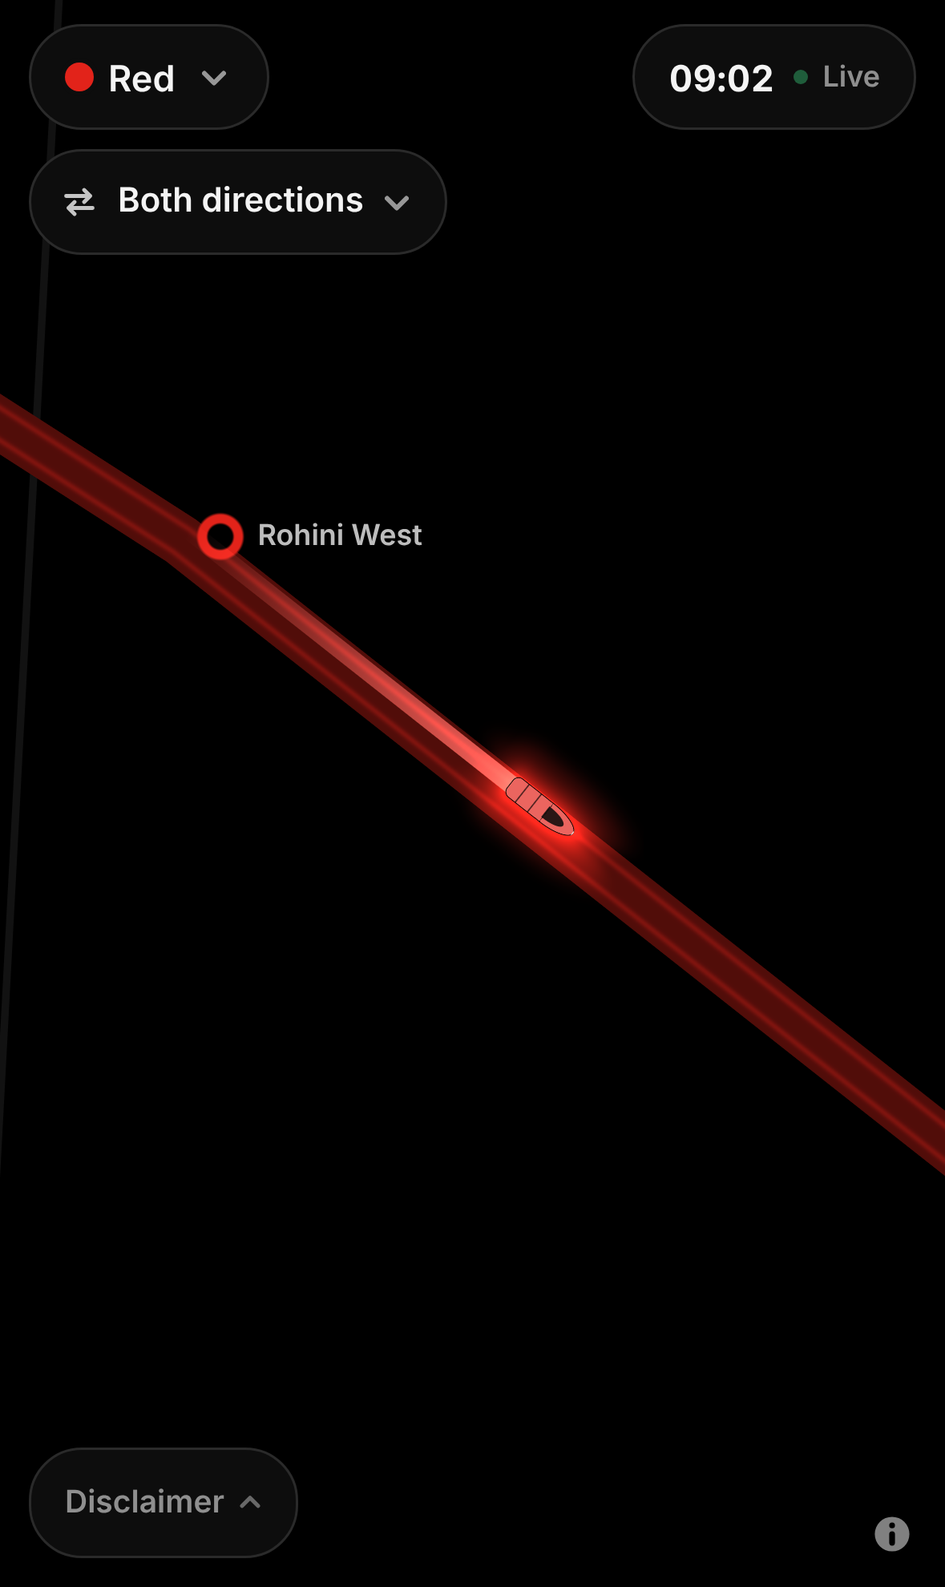
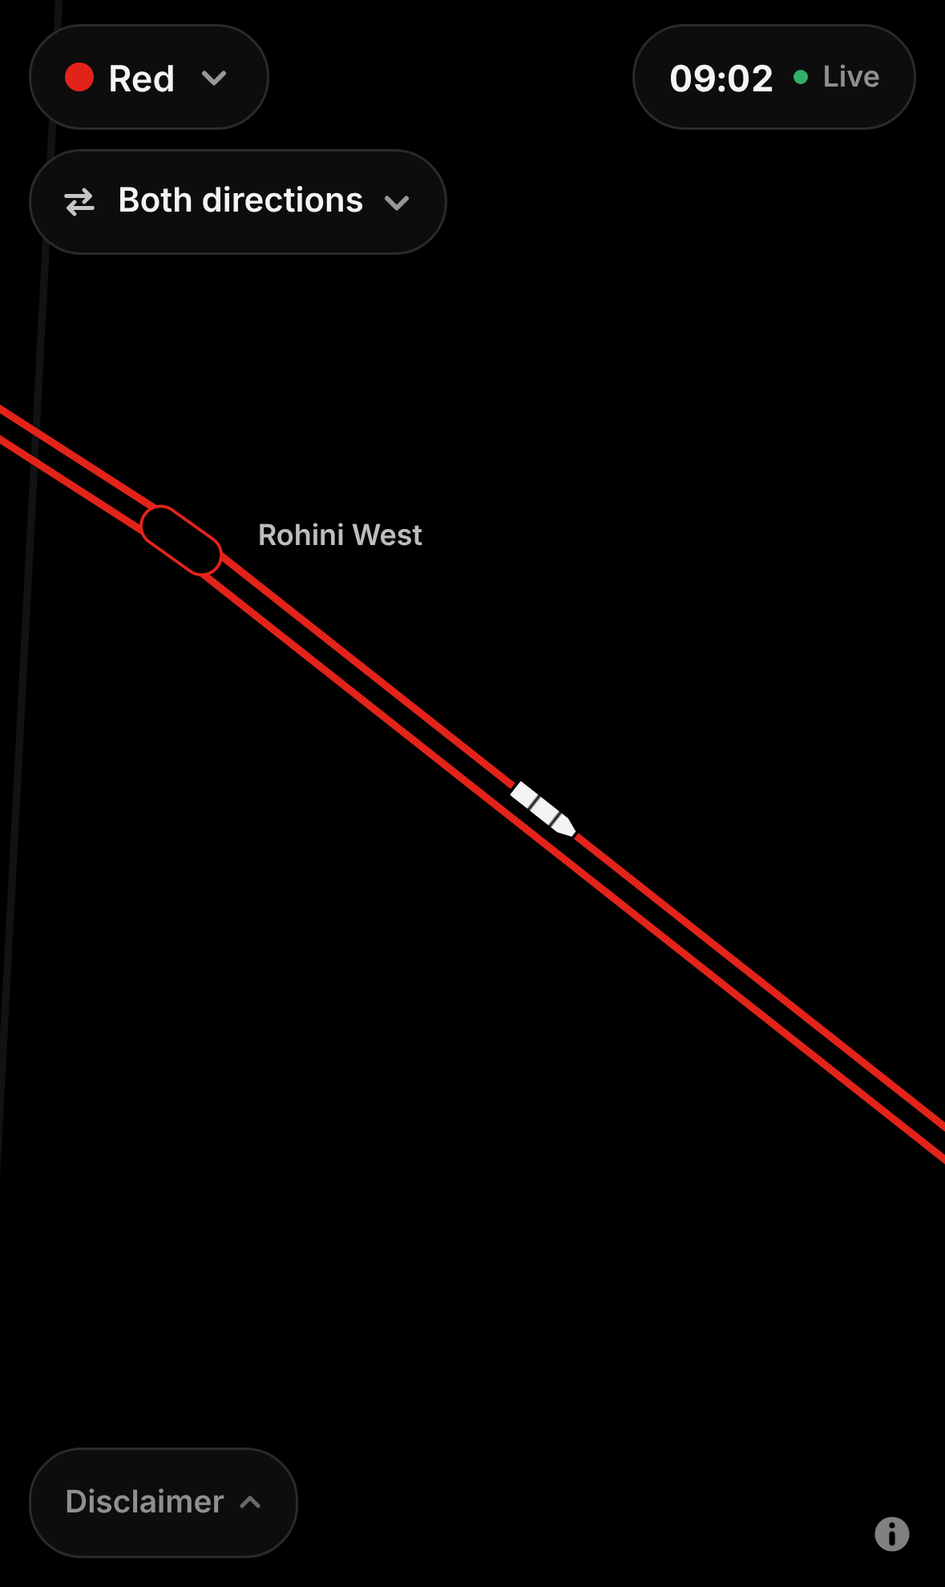
Maptro 1.2: solid rails, white metro cars, platform stations
Drop the glow, trails and dimmed band that made the track read like an LED
strip. Each line is now its own solid DMRC colour as two thin rails, one per
direction, that close into one thin line when zoomed out. Trains are boxy
white metro cars with a cut front (the bullet with a dark windscreen read as
a fingertip). Stations are drawn as their platforms: a black pill along the
track, edged in the line colour or white at interchanges, one per line.

Screenshot script adds every-line, interchange and Airport close-up shots;
before/after pairs are in docs/screenshots/1.2.

Claude-Session: https://claude.ai/code/session_01UZxfWzKVYAHWCsTLyJf7CS

Changed region(s): [[0.0, 0.2465, 1.0, 0.7394], [0.8244, 0.0308, 0.855, 0.0616]]

diff --git a/index.html b/index.html
@@ -328,9 +328,8 @@ const NAMES = {RED:'Red',YELLOW:'Yellow',BLUE:'Blue',GREEN:'Green',VIOLET:'Viole
 const SHOW = {BLUE:'#2f86f0',VIOLET:'#a05bd0',MAGENTA:'#e0329f',GRAY:'#a7adb5',RAPID:'#5aa0ec',GREEN:'#33b34f'};
 const DEFAULT = ['ORANGE/AIRPORT'];
 const LINES_KEY = 'maptro-lines-v2'; // v2: the default became the Airport Express, so earlier saved picks start fresh
+const INK = [.957, .957, .957]; // --ink: trains are drawn in it, so they stand out from any line
 const SPEEDS = [1, 10, 60]; // simulation only; live time always runs at 1x
-const TRAIL_S = 55;
-const TRACK_DIM = .36; // the track is the line colour at about a third, so the trains carry the light
 // Basemap: OpenStreetMap data as OpenFreeMap vector tiles (free, no key, made for hotlinking), drawn in Maptro's own
 // true-black style. No symbol layers, so no fonts or sprites load; station names are ours. Tokens in DESIGN.md.
 const BLACK_STYLE = { version: 8,
@@ -390,12 +389,10 @@ void main(){
   vec2 o=n*ml*(a_side*hw+u_off);
   gl_Position=vec4((s+o)/(u_res*.5)*c.w,0.,c.w);v_col=a_col;v_s=a_side*hw;
 }`;
-const LINE_FS = `precision highp float;varying vec4 v_col;varying float v_s;uniform float u_w,u_glow;
-void main(){float d=abs(v_s),a;vec3 c=v_col.rgb;
-  if(u_glow>1.5){ // track: a faded band with a faint lane down each side, so it reads as two tracks
-    a=clamp(u_w*.5+.5-d,0.,1.);float q=d-u_w*.27;c*=1.+.55*exp(-q*q/max(u_w*u_w*.004,.6));}
-  else if(u_glow>.5){float x=clamp(d/(u_w*.5+1.),0.,1.);a=(1.-x)*(1.-x)*.28;}else a=clamp(u_w*.5+.5-d,0.,1.);
-  gl_FragColor=vec4(c,1.)*v_col.a*a;}`;
+// Track: solid line colour. Two rails, one per direction, that merge into one line when zoomed out.
+const LINE_FS = `precision highp float;varying vec4 v_col;varying float v_s;uniform float u_w,u_gap;
+void main(){float d=abs(v_s);float a=clamp(u_w*.5+.5-d,0.,1.);if(u_gap>.01)a*=clamp(d-u_gap+.5,0.,1.);
+  gl_FragColor=vec4(v_col.rgb,1.)*v_col.a*a;}`;
 const PT_VS = `precision highp float;
 attribute vec2 a_pos,a_dir;attribute vec4 a_col;attribute float a_size,a_kind;
 uniform mat4 u_m;uniform vec2 u_res;uniform float u_off,u_scale,u_tl,u_pad;
@@ -404,38 +401,31 @@ void main(){
   vec4 c=u_m*vec4(a_pos,0.,1.);vec2 s=c.xy/c.w*u_res*.5;v_dir=vec2(1.,0.);
   if(dot(a_dir,a_dir)>0.){vec4 c2=u_m*vec4(a_pos+a_dir*1e-6,0.,1.);vec2 t=c2.xy/c2.w*u_res*.5-s;
     if(dot(t,t)>1e-12){t=normalize(t);s+=vec2(-t.y,t.x)*u_off;v_dir=t;}}
-  // trains (kind 0) and their selection outline (kind 2) are sized from the train's length; stations from a_size
+  // trains (kind 0) and their selection outline (kind 2) are sized from the train's length; platforms (kind 1) from u_scale
   float px=a_kind>1.5||a_kind<.5?u_tl*a_size+2.*u_pad:a_size*u_scale;
   gl_Position=vec4(s/(u_res*.5)*c.w,0.,c.w);gl_PointSize=px;v_px=px;v_sz=a_size;v_col=a_col;v_kind=a_kind;
 }`;
-// A train seen from above: a body with a rounded tail and a bullet nose, pointing the way it travels.
+// A train seen from above: a boxy metro car, three coaches, the front corners cut so it points the way it travels.
+// A station is drawn as its platform: a pill along the track, wide enough to take both rails, a train long.
 const PT_FS = `precision highp float;varying vec4 v_col;varying float v_kind,v_px,v_sz;varying vec2 v_dir;
-uniform float u_body,u_tl,u_tw,u_coach;
-float ell(vec2 q,vec2 r){float k=length(q/r);vec2 g=q/(r*r)/max(k,1e-4);return (k-1.)/max(length(g),1e-4);}
-float bullet(vec2 q,float L,float W,out float glass){
-  float hl=L*.5,hw=W*.5,nose=min(W*1.45,L*.42),x0=hl-nose,rr=hw*.6;
-  vec2 c=vec2((x0-hl)*.5,0.),b=vec2((x0+hl)*.5,hw),d=abs(q-c)-b+rr;
-  float box=length(max(d,0.))+min(max(d.x,d.y),0.)-rr;
-  glass=max(ell(q-vec2(x0,0.),vec2(nose*.62,hw*.56)),x0-nose*.05-q.x);
-  return min(box,ell(q-vec2(x0,0.),vec2(nose,hw)));}
+uniform float u_tl,u_tw,u_coach,u_bw,u_rim;uniform vec2 u_pl;
+float rbox(vec2 q,vec2 h,float r){vec2 d=abs(q)-h+r;return length(max(d,0.))+min(max(d.x,d.y),0.)-r;}
+float car(vec2 q,float L,float W){float hl=L*.5,hw=W*.5,nose=min(W*.7,L*.22);
+  vec2 n=normalize(vec2(hw*.55,nose));
+  return max(rbox(q,vec2(hl,hw),hw*.35),dot(vec2(q.x,abs(q.y))-vec2(hl,hw*.45),n));}
 void main(){vec2 p=vec2(gl_PointCoord.x*2.-1.,1.-gl_PointCoord.y*2.);
-  if(v_kind<.5||v_kind>1.5){
-    vec2 q=p*v_px*.5;q=vec2(dot(q,v_dir),dot(q,vec2(-v_dir.y,v_dir.x)));
-    float L=u_tl*v_sz,W=u_tw*v_sz,gs;float d=bullet(q,L,W,gs);
-    if(v_kind>1.5){float a=clamp(1.3-abs(d-3.2),0.,1.);gl_FragColor=vec4(1.)*a*v_col.a;return;}
-    if(u_body<.5){float pad=(v_px-L)*.5;float g=exp(-max(d,0.)/(W*.75))*(1.-smoothstep(pad*.45,pad*.9,d));gl_FragColor=vec4(v_col.rgb*g*.95,0.)*v_col.a;return;}
-    float edge=clamp(.5-d,0.,1.);
-    vec3 fill=mix(v_col.rgb,vec3(1.),.3);
-    // gaps between coaches, once the train is big enough to show them
-    float x0=L*.5-min(W*1.45,L*.42),cl=(x0+L*.5)/3.;float gx=abs(mod(q.x+L*.5+cl*.5,cl)-cl*.5);
-    if(u_coach>.5&&q.x>-L*.5+cl*.5&&q.x<x0)fill*=mix(.35,1.,clamp(gx-.35,0.,1.));
-    vec3 col=mix(vec3(0.),fill,1.-smoothstep(-1.4,-.4,d)); // a dark rim, so the train never melts into its track
-    col=mix(col,vec3(.03),clamp(.5-gs,0.,1.)*.85);       // windscreen
-    col=mix(col,vec3(1.),clamp(.5-(L*.5-1.4-q.x),0.,1.)*clamp(.5-d,0.,1.)*.9); // headlight at the nose
-    gl_FragColor=vec4(col,1.)*edge*v_col.a;return;}
-  float r=length(p);if(r>1.)discard;
-  float ring=smoothstep(.98,.84,r);float inner=smoothstep(.58,.46,r);
-  gl_FragColor=vec4(mix(v_col.rgb,vec3(0.),inner),1.)*ring*v_col.a;
+  vec2 q=p*v_px*.5;q=vec2(dot(q,v_dir),dot(q,vec2(-v_dir.y,v_dir.x)));
+  if(v_kind>.5&&v_kind<1.5){ // platform: black inside, a hairline in the line colour (white at interchanges)
+    vec2 h=u_pl*.5;float d=rbox(q,h,h.y);float a=clamp(.5-d,0.,1.);
+    vec3 col=v_col.rgb*clamp(d+u_bw+.5,0.,1.);
+    gl_FragColor=vec4(col,1.)*a*v_col.a;return;}
+  float L=u_tl*v_sz,W=u_tw*v_sz;float d=car(q,L,W);
+  if(v_kind>1.5){float a=clamp(1.3-abs(d-3.2),0.,1.);gl_FragColor=vec4(1.)*a*v_col.a;return;}
+  vec3 fill=v_col.rgb;
+  float gx=min(abs(q.x-L/6.),abs(q.x+L/6.)); // gaps between coaches, once the train is big enough to show them
+  if(u_coach>.5)fill*=mix(.15,1.,clamp(gx/u_rim*1.4-.2,0.,1.));
+  vec3 col=fill*clamp(-d-u_rim+.5,0.,1.); // a black rim, so the train never melts into its rail
+  gl_FragColor=vec4(col,1.)*clamp(.5-d,0.,1.)*v_col.a;
 }`;
 
 class Buf { // growable Float32 / Uint16 writer
@@ -457,16 +447,19 @@ function polyline(V, I, pts, rgba, fade) { // pts: [[x,y,f?]] in relative Mercat
   for (let i = 0; i < n - 1; i++) { const k = base + i * 2; I.push(k, k + 1, k + 2, k + 1, k + 3, k + 2); }
 }
 
-// Sizes in CSS pixels by zoom. The track is two trains wide, so trains in each direction run in their own lane.
+// Sizes in CSS pixels by zoom. Each direction has its own rail, so trains never overlap.
 function sizes(z) {
-  const tw = Math.max(2.6, Math.min(10, 2.6 + (z - 10) * 1.45));
-  const track = tw * 2 + 1.5;
-  // stations stay small dots when zoomed out and grow to span the track when zoomed in
-  return { tw, tl: tw * 3.4, track, lane: tw * .5 + .4, st: Math.max(4.5, Math.min(track + 3, 4 + (z - 10) * 3.4)) };
+  const tw = Math.max(3.2, Math.min(10, 2.6 + (z - 10) * 1.45)), tl = tw * 3.4;
+  const split = Math.max(0, Math.min(1, (tw - 3.6) / 1.8)); // rails part as you zoom in
+  // zoomed out, the two lanes close up so the line is thinner than the trains on it, and trains stay easy to spot
+  const lane = (tw * .5 + .4) * (.4 + .6 * split), rail = Math.max(1.3, tw * .3), band = lane * 2 + rail;
+  // a platform takes both rails with a margin; zoomed out it is a round mark, zoomed in it is a train long
+  const pw = band + 4, pl = pw + (tl * 1.15 - pw) * Math.max(0, Math.min(1, (z - 11.6) / 1.6));
+  return { tw, tl, lane, rail, band, rim: Math.max(.6, Math.min(1.25, tw * .14)), gap: (lane - rail / 2) * split, pw, pl, st: Math.max(pw, pl * .55) };
 }
 function makeGpu() {
   const g = { lineV: new Buf(Float32Array), lineI: new Buf(Uint16Array), stV: new Buf(Float32Array),
-    trV: new Buf(Float32Array), trI: new Buf(Uint16Array), headV: new Buf(Float32Array), fxV: new Buf(Float32Array),
+    headV: new Buf(Float32Array), fxV: new Buf(Float32Array),
     staticDirty: true, gl: null };
   g.init = gl => {
     g.gl = gl;
@@ -479,7 +472,7 @@ function makeGpu() {
       return { p, u, attrs }; };
     g.line = prog(LINE_VS, LINE_FS, ['a_pos', 'a_prev', 'a_next', 'a_side', 'a_col']);
     g.pt = prog(PT_VS, PT_FS, ['a_pos', 'a_dir', 'a_col', 'a_size', 'a_kind']);
-    g.b = {}; for (const k of ['lineV', 'lineI', 'stV', 'trV', 'trI', 'headV', 'fxV']) g.b[k] = gl.createBuffer();
+    g.b = {}; for (const k of ['lineV', 'lineI', 'stV', 'headV', 'fxV']) g.b[k] = gl.createBuffer();
     g.isGL2 = typeof WebGL2RenderingContext !== 'undefined' && gl instanceof WebGL2RenderingContext;
     g.vao = g.isGL2 ? null : gl.getExtension('OES_vertex_array_object');
     g.minmax = g.isGL2 ? gl.MAX : (gl.getExtension('EXT_blend_minmax') || {}).MAX_EXT;
@@ -499,34 +492,25 @@ function makeGpu() {
     if (g.isGL2) gl.bindVertexArray(null); else if (g.vao) g.vao.bindVertexArrayOES(null);
     gl.disable(gl.DEPTH_TEST); gl.disable(gl.STENCIL_TEST); gl.disable(gl.CULL_FACE); gl.enable(gl.BLEND);
     const res = [gl.drawingBufferWidth, gl.drawingBufferHeight], dpr = view.dpr, z = view.zoom, S = sizes(z);
-    const tw = S.tw * dpr, tl = S.tl * dpr, trackW = S.track * dpr, off = S.lane * dpr;
+    const tw = S.tw * dpr, tl = S.tl * dpr, trackW = S.band * dpr, off = S.lane * dpr;
     if (g.staticDirty) { upload(gl, gl.ARRAY_BUFFER, g.b.lineV, g.lineV.view(), gl.STATIC_DRAW); upload(gl, gl.ELEMENT_ARRAY_BUFFER, g.b.lineI, g.lineI.view(), gl.STATIC_DRAW);
       upload(gl, gl.ARRAY_BUFFER, g.b.stV, g.stV.view(), gl.STATIC_DRAW); g.staticDirty = false; }
     gl.blendEquation(gl.FUNC_ADD); gl.blendFunc(gl.ONE, gl.ONE_MINUS_SRC_ALPHA);
-    // track: one solid faded band per line (pre-dimmed colour, so shared sections don't brighten), two lanes wide
+    // track: the line's own colour, solid, one rail per direction
     const L = g.line; gl.useProgram(L.p); gl.uniformMatrix4fv(L.u.u_m, false, M); gl.uniform2fv(L.u.u_res, res);
     gl.bindBuffer(gl.ARRAY_BUFFER, g.b.lineV); gl.bindBuffer(gl.ELEMENT_ARRAY_BUFFER, g.b.lineI); bindAttrs(gl, LINE_LAYOUT, 11);
-    if (g.lineI.n) { gl.uniform1f(L.u.u_w, trackW); gl.uniform1f(L.u.u_off, 0); gl.uniform1f(L.u.u_glow, 2);
+    if (g.lineI.n) { gl.uniform1f(L.u.u_w, trackW); gl.uniform1f(L.u.u_off, 0); gl.uniform1f(L.u.u_gap, S.gap * dpr);
       gl.drawElements(gl.TRIANGLES, g.lineI.n, gl.UNSIGNED_SHORT, 0); }
     unbind(gl, 5);
-    // stations sit on the track, under the trains
+    // platforms sit on the track, under the trains
     const P = g.pt; gl.useProgram(P.p); gl.uniformMatrix4fv(P.u.u_m, false, M); gl.uniform2fv(P.u.u_res, res);
     gl.uniform1f(P.u.u_tl, tl); gl.uniform1f(P.u.u_tw, tw); gl.uniform1f(P.u.u_coach, S.tw >= 5 ? 1 : 0);
+    gl.uniform1f(P.u.u_bw, 1.25 * dpr); gl.uniform1f(P.u.u_rim, S.rim * dpr); gl.uniform2f(P.u.u_pl, S.pl * dpr, S.pw * dpr);
     const pts = (buf, data, scale, o, pad, again) => { if (!data.n) return; gl.bindBuffer(gl.ARRAY_BUFFER, buf); if (data !== g.stV && !again) gl.bufferData(gl.ARRAY_BUFFER, data.view(), gl.DYNAMIC_DRAW);
       bindAttrs(gl, PT_LAYOUT, 10); gl.uniform1f(P.u.u_scale, scale * dpr); gl.uniform1f(P.u.u_off, o); gl.uniform1f(P.u.u_pad, pad); gl.drawArrays(gl.POINTS, 0, data.n / 10); };
-    gl.uniform1f(P.u.u_body, 0); pts(g.b.stV, g.stV, S.st, 0, 0);
-    unbind(gl, 5);
-    // trails, in the train's lane, added light
-    if (g.trI.n) {
-      gl.useProgram(L.p);
-      upload(gl, gl.ARRAY_BUFFER, g.b.trV, g.trV.view(), gl.DYNAMIC_DRAW); upload(gl, gl.ELEMENT_ARRAY_BUFFER, g.b.trI, g.trI.view(), gl.DYNAMIC_DRAW);
-      bindAttrs(gl, LINE_LAYOUT, 11); gl.uniform1f(L.u.u_w, tw * .78); gl.uniform1f(L.u.u_off, off); gl.uniform1f(L.u.u_glow, 0);
-      gl.blendFunc(gl.ONE, gl.ONE); gl.drawElements(gl.TRIANGLES, g.trI.n, gl.UNSIGNED_SHORT, 0); gl.blendFunc(gl.ONE, gl.ONE_MINUS_SRC_ALPHA);
-      unbind(gl, 5); gl.useProgram(P.p);
-    }
-    // trains: an added glow, then the solid body on top, then the selection outline
-    gl.blendFunc(gl.ONE, gl.ONE); pts(g.b.headV, g.headV, 1, off, tw * 2.6); gl.blendFunc(gl.ONE, gl.ONE_MINUS_SRC_ALPHA);
-    gl.uniform1f(P.u.u_body, 1); pts(g.b.headV, g.headV, 1, off, 2 * dpr, true); gl.uniform1f(P.u.u_body, 0);
+    pts(g.b.stV, g.stV, S.pl + 4, 0, 0);
+    // trains, then the selection outline
+    pts(g.b.headV, g.headV, 1, off, 2 * dpr);
     pts(g.b.fxV, g.fxV, 1, off, 6 * dpr);
     unbind(gl, 5);
     gl.bindBuffer(gl.ARRAY_BUFFER, null); gl.bindBuffer(gl.ELEMENT_ARRAY_BUFFER, null);
@@ -544,21 +528,26 @@ function buildStatic() {
     for (const r of R) {
       if (r.line !== l || (r.id.endsWith('_R') && ids.has(r.id.slice(0, -2)))) continue;
       const pts = []; for (let i = 0; i < r.mx.length; i++) pts.push([r.mx[i] - ORIGIN[0], r.my[i] - ORIGIN[1]]);
-      polyline(g.lineV, g.lineI, pts, [...rgb[l].map(v => v * TRACK_DIM), 1]);
+      polyline(g.lineV, g.lineI, pts, [...rgb[l], 1]);
     }
   }
-  // stations, one per name, interchanges (on 2+ lines anywhere) in white and larger
-  const byName = new Map();
+  // stations, one per name, for labels and taps; interchanges are on 2+ lines anywhere
+  const byName = new Map(), plat = new Map();
   for (const r of R) r.pat.forEach((p, j) => {
     const name = D.stops[p[0]][0]; let s = byName.get(name);
     if (!s) byName.set(name, s = { name, ids: new Set(), lines: new Set(), on: new Set(), term: false, m: null });
     s.ids.add(p[0]); s.lines.add(r.line);
-    if (sel.has(r.line)) { s.on.add(r.line); if (!s.m) s.m = merc(D.stops[p[0]][1], D.stops[p[0]][2]); if (j === 0 || j === r.pat.length - 1) s.term = true; }
+    if (sel.has(r.line)) { s.on.add(r.line); if (!s.m) s.m = merc(D.stops[p[0]][1], D.stops[p[0]][2]); if (j === 0 || j === r.pat.length - 1) s.term = true;
+      const k = name + '|' + r.line; if (!plat.has(k)) plat.set(k, { s, r, d: p[3] }); }
   });
   stations = [...byName.values()].filter(s => s.on.size);
+  // one platform per station per line, on that line's own track and turned to follow it
+  for (const { s, r, d } of plat.values()) {
+    const [x, y] = posAt(r, d), [tx, ty] = headingAt(r, d), c = s.lines.size > 1 ? [1, 1, 1] : rgb[r.line];
+    g.stV.push(x - ORIGIN[0], y - ORIGIN[1], tx, ty, c[0], c[1], c[2], 1, 1, 1);
+  }
   for (const s of stations) {
-    const ic = s.lines.size > 1, c = ic ? [1, 1, 1] : rgb[[...s.on][0]];
-    g.stV.push(s.m[0] - ORIGIN[0], s.m[1] - ORIGIN[1], 0, 0, c[0], c[1], c[2], 1, ic ? 1.3 : 1, 1);
+    const ic = s.lines.size > 1;
     s.pri = (s.term ? 2 : 0) + (ic ? 1 : 0);
     s.minZ = s.term ? 9 : ic ? 10.3 : 11.6;
   }
@@ -566,14 +555,11 @@ function buildStatic() {
   g.staticDirty = true; labelsDirty = true;
 }
 function buildDynamic(t) {
-  const g = gpu; g.trV.reset(); g.trI.reset(); g.headV.reset(); g.fxV.reset();
+  const g = gpu; g.headV.reset(); g.fxV.reset();
   trains = trainsAt(act, t, null);
   for (const o of trains) {
-    const c = rgb[o.r.line];
-    const tr = trailPoints(o.r, o.e, TRAIL_S).map(p => [p[0] - ORIGIN[0], p[1] - ORIGIN[1], p[2]]);
-    polyline(g.trV, g.trI, tr, [c[0] * .6 + .4, c[1] * .6 + .4, c[2] * .6 + .4, .75], true);
     const [x, y] = o.pos, [tx, ty] = headingAt(o.r, o.d);
-    const isPick = picked && picked.r === o.r && picked.s0 === o.s0;
+    const isPick = picked && picked.r === o.r && picked.s0 === o.s0, c = INK; // trains are white objects on their line
     g.headV.push(x - ORIGIN[0], y - ORIGIN[1], tx, ty, c[0], c[1], c[2], 1, isPick ? 1.18 : 1, 0);
     if (isPick) { picked.o = o; const a = RM.matches ? 1 : .55 + .45 * Math.sin(performance.now() / 260);
       g.fxV.push(x - ORIGIN[0], y - ORIGIN[1], tx, ty, 1, 1, 1, a, 1.18, 2); }
@@ -888,7 +874,7 @@ Promise.all([fetch('data.json').then(r => r.json()), getMapLibre()]).then(async 
   cam.fit(selBounds(), false);
   document.documentElement.dataset.ready = cam.kind;
   // used by the screenshot script to find a train to tap
-  window.__maptro = { trainsOnScreen: () => trains.map(o => cam.project(o.pos[0], o.pos[1])), view: (lon, lat, z) => cam.map && cam.map.jumpTo({ center: [lon, lat], zoom: z }) };
+  window.__maptro = { trainsOnScreen: () => trains.map(o => cam.project(o.pos[0], o.pos[1])), trainLonLat: i => trains[i] && unmerc(trains[i].pos[0], trains[i].pos[1]), view: (lon, lat, z) => cam.map && cam.map.jumpTo({ center: [lon, lat], zoom: z }) };
   requestAnimationFrame(frame);
 }).catch(e => { document.body.insertAdjacentHTML('beforeend', '<div class="err"><span>Couldn\'t load the timetable.</span><button class="btn act press" onclick="location.reload()">Tap to reload</button></div>'); console.error(e); });
 })();

diff --git a/DESIGN.md b/DESIGN.md
@@ -22,7 +22,7 @@ The principles were drawn from how Kiron (pranjal's quiz app) was built: its des
 
 ## 2. Colour tokens
 
-Always dark, and **true black** (`#000`), so an OLED phone switches those pixels off and the line colours glow against nothing. No light mode. `color-scheme: dark`; `theme-color` is `#000000`.
+Always dark, and **true black** (`#000`), so an OLED phone switches those pixels off and the line colours stand out against nothing. No light mode. `color-scheme: dark`; `theme-color` is `#000000`.
 
 ```css
 :root {
@@ -41,7 +41,8 @@ Rules:
 - Resting layers step up from black: page `--bg`, panels `--surface` with a 1px `--line` hairline, buttons and pressed rows `--surface2`.
 - State colours are few and small: the green dot beside "Live", amber when the clock runs fast, a white fill when Follow is on.
 - The primary action ("Skip to 8 am", "Tap to reload", Follow when on) is white with black text.
-- Line colours are DMRC's own, nudged brighter where they read too dark on black (`SHOW` in `index.html`).
+- Line colours are DMRC's own, nudged brighter where they read too dark on black (`SHOW` in `index.html`). They are drawn solid and at full strength, never dimmed, glowing or blended: no gradients, no added light.
+- Trains are drawn in `--ink`, so a train is the same white object on any line, and the line it is on says which line it is.
 
 ### Basemap
 OpenStreetMap data, served as vector tiles by OpenFreeMap (free, no key, made to be linked from other sites), drawn in Maptro's own style (`BLACK_STYLE` in `index.html`):
@@ -100,10 +101,13 @@ Shown under the line picker when exactly one line is chosen. It is a native `<se
 ### Count note
 "19 trains active", with the line's dot: a small pill that drops in under the controls for 2.6 seconds when the page opens, the lines change (once the picker closes) or the direction changes. It replaced the number that sat in the line picker, which read as a static label. Not shown when no train is running (the quiet-hours sheet says that).
 
-### Trains and track
-- **Track:** one solid band per line, the line colour at 36% (`TRACK_DIM`), two trains wide, with a faint lane down each side so it reads as double track. Solid, so shared sections don't brighten.
-- **Trains:** seen from above: a body in the line colour lifted towards white, coach gaps once it is 5px wide or more, a bullet nose with a dark windscreen and a white headlight, and a thin dark rim so it never melts into its track. An added glow in the line colour sits under it, and a fading trail runs behind in its lane. Trains run in the left lane, as Delhi's do, so the two directions never overlap. The heading is averaged over 90 m of track, so trains turn smoothly through bends.
-- **Sizes** (`sizes()` in `index.html`) grow with zoom: train width 2.6 to 10px, length 3.4× width, track 2× train width plus 1.5px, stations from a 4.5px dot to a ring spanning the track.
+### Trains, track and stations
+Drawn like a transit map seen from above, not a light show. Nothing glows, nothing trails, nothing is blended.
+- **Track:** the line's own colour, solid. Two thin rails, one per direction, with black between them. Zoomed out, the rails close up into one thin line that is narrower than the trains on it, so the trains stay easy to spot.
+- **Trains:** a boxy metro car in `--ink` with a thin black rim, three coaches once it is 5px wide or more, and the front corners cut so it points the way it travels. No windscreen, headlight, glow or trail (the rounded bullet with a dark windscreen read as a fingertip). Trains run on the left rail, as Delhi's do, so the two directions never overlap. The heading is averaged over 90 m of track, so trains turn smoothly through bends. The picked train keeps its pulsing white outline.
+- **Stations** are drawn as their platform: a black pill with a hairline edge, laid along the track and wide enough to take both rails, so a train visibly pulls in and stops inside it. Zoomed out it shrinks to a small round mark; from about zoom 12 it stretches to a train's length. The edge is the line colour, or white at an interchange. Each line gets its own platform where it stops, so an interchange shows where each line's platform really is.
+  - Real station footprints were considered and not used: most of Delhi's stations are underground and have no footprint to draw, the elevated ones are a few pixels across until zoom 15, and outlines from OpenStreetMap vary in quality. A platform mark says the same thing (a train stops here, along this track) at every zoom.
+- **Sizes** (`sizes()` in `index.html`) grow with zoom: train width 3.2 to 10px, length 3.4× width, rails 1.3px or 30% of a train's width, platform the rails' width plus 4px.
 
 ### Line picker
 A dropdown that unfolds from the pill. Header "Lines" with All and None. One row per line: a ring in the line colour that fills with a tick when chosen, and the line's name. Each row is a real `switch` checkbox stretched over the row, so the tap is native and gives the haptic tick. Tapping outside closes it, and the map then fits the chosen lines.

diff --git a/README.md b/README.md
@@ -19,7 +19,7 @@ Then serve the folder (`python3 -m http.server`) and open index.html.
 ## The page
 - `index.html` is the whole app, with no build step. It draws the lines, stations and trains with WebGL as a MapLibre GL custom layer over an OpenStreetMap basemap (OpenFreeMap vector tiles in Maptro's own true-black style). MapLibre 4.7.1 comes from jsDelivr (unpkg as a second try). If neither loads, the same WebGL renderer runs on its own canvas with its own pan and pinch, just without the basemap.
 - It opens on the Airport Express. Pick lines from the dropdown; only those lines, their stations and their trains are drawn. Station names appear by zoom level and never overlap. The choice is remembered in the browser.
-- Trains glide every frame (`requestAnimationFrame`, so 120 Hz on ProMotion phones) drawn from above with a bullet nose so you can see which way they're heading, with a glow and a short trail. The track is two trains wide and each direction keeps to its own (left-hand) lane. With one line chosen, a direction dropdown shows both directions or just one, and a note says how many trains are active. Tap a train for its next stop and Follow it; tap a station for its next departures. When no trains run, Skip to 8 am starts a simulation, and only then can the clock run at 1×, 10× or 60×.
+- Trains glide every frame (`requestAnimationFrame`, so 120 Hz on ProMotion phones) drawn from above as white metro cars with a cut front so you can see which way they're heading. The track is the line's own solid colour, one rail per direction, and each train keeps to its own (left-hand) rail. Stations are drawn as their platforms. With one line chosen, a direction dropdown shows both directions or just one, and a note says how many trains are active. Tap a train for its next stop and Follow it; tap a station for its next departures. When no trains run, Skip to 8 am starts a simulation, and only then can the clock run at 1×, 10× or 60×.
 
 ## Design
 How it looks, moves and behaves, and the checklist for any change: [DESIGN.md](DESIGN.md).
